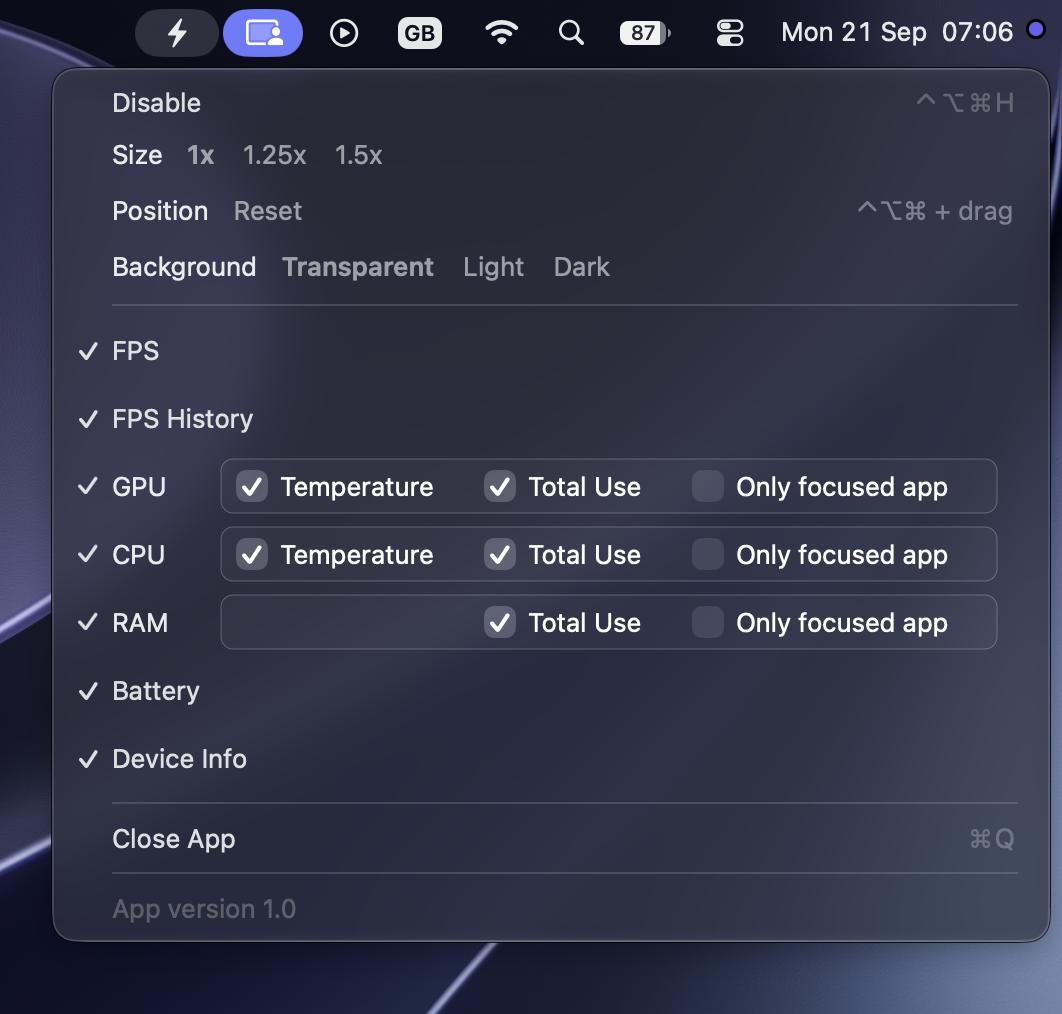
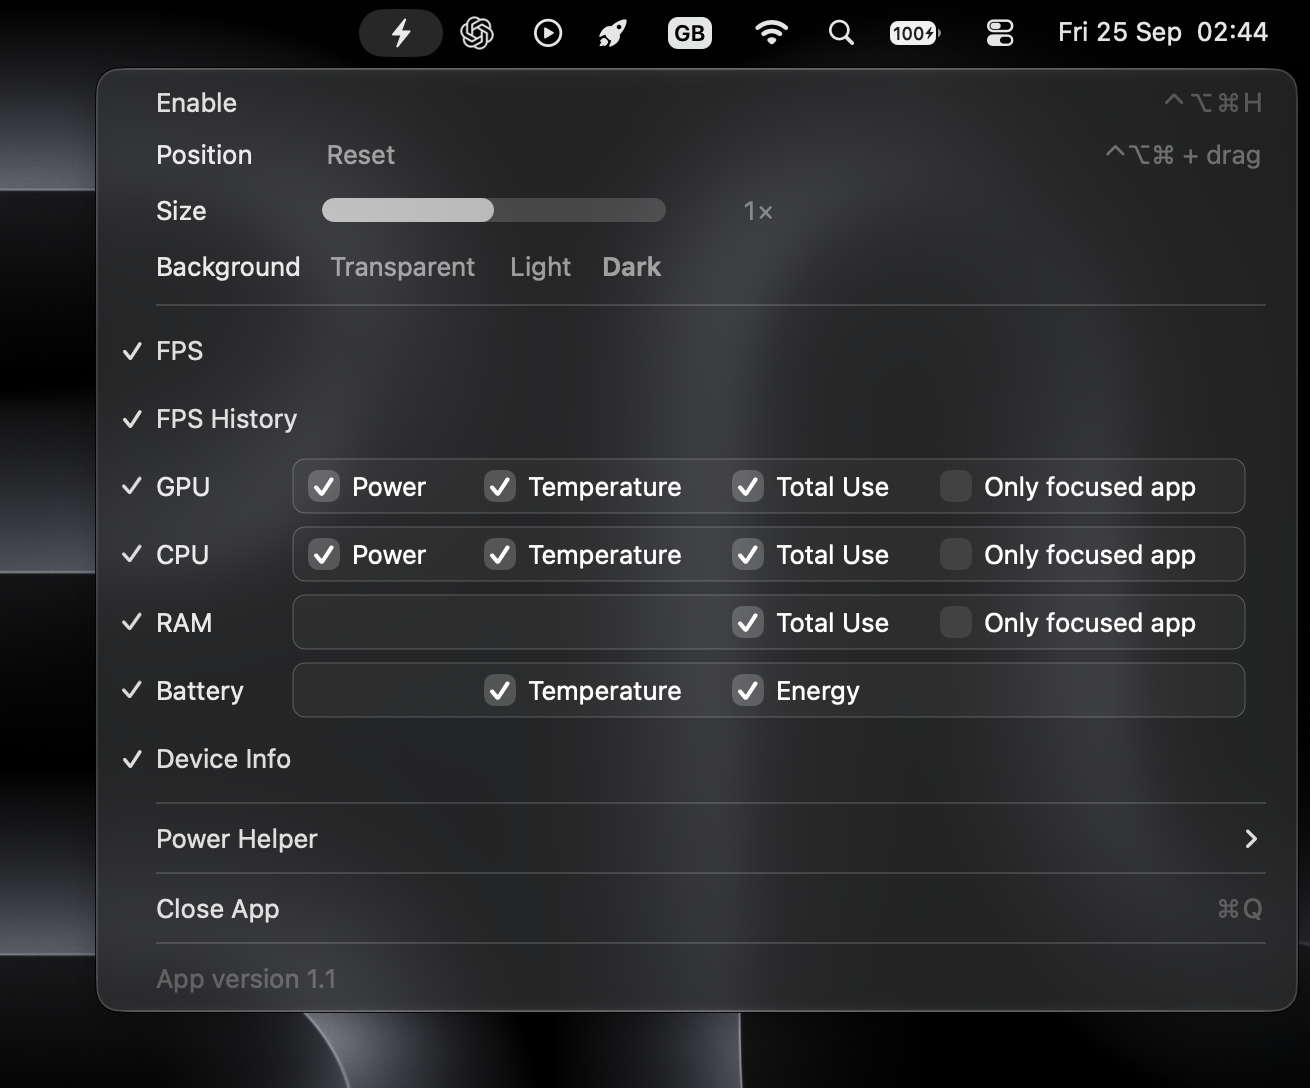
Updated images for new version

diff --git a/README.md b/README.md
@@ -11,7 +11,7 @@
 ## Showcase
 
 Watch PerformanceHUD used:
-[Gameplay video 1](https://youtu.be/ZI6cvaOitAE?si=BmEyrPy4rH7b7GAM)
+[Gameplay video 1](https://youtu.be/-b_t999Q9pQ)
 
 ## What is this?
 
@@ -68,7 +68,7 @@ This is not aimed to be a MetalHUD replacement, Apple's built-in Metal HUD focus
 
 ## Future ideas — under consideration
 
-These are potential additions, not planned or guaranteed features:
+These are potential additions, not guaranteed:
 
 - Fan speed (RPM), on Macs with fans.
 
